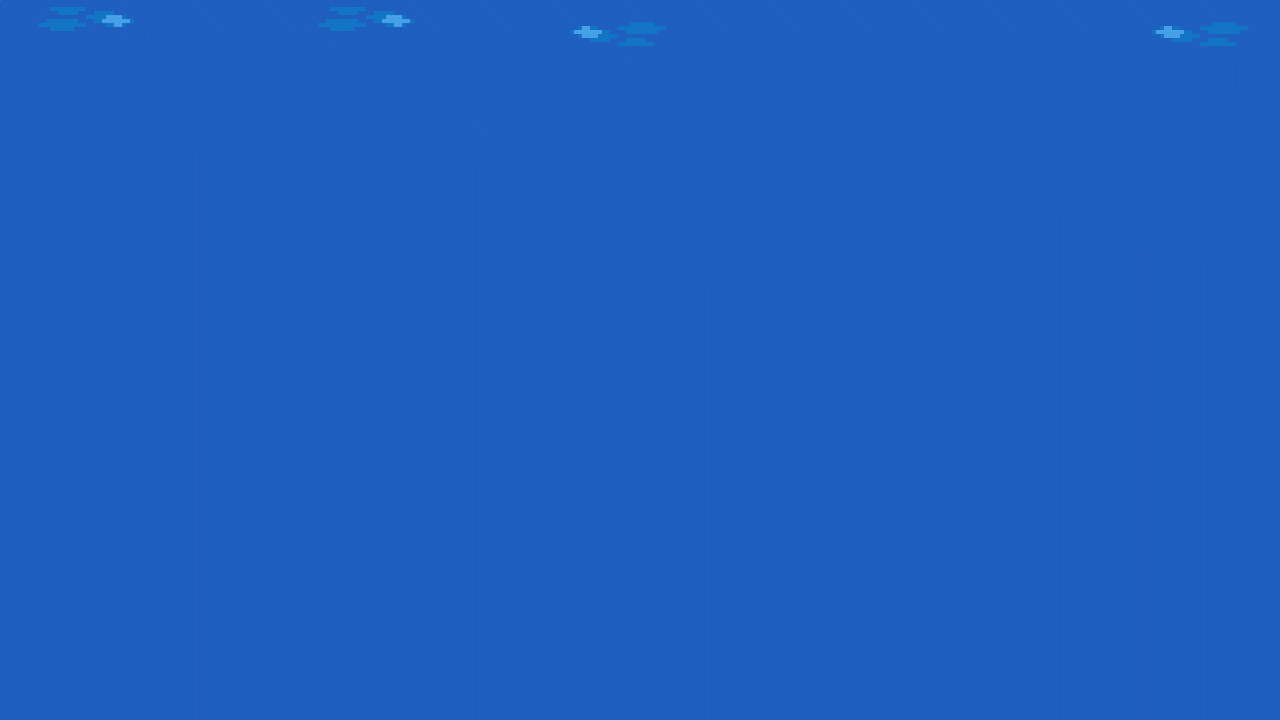
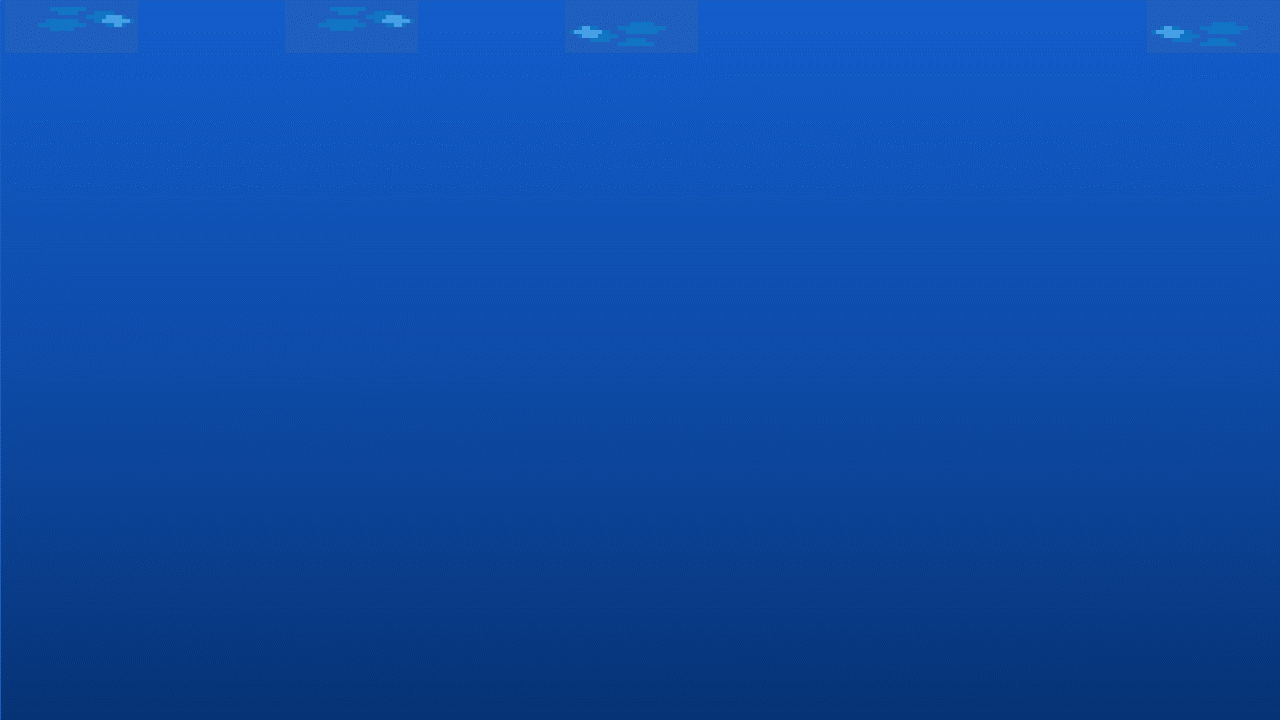
icy_update

diff --git a/src/pages/icy_mountains.html b/src/pages/icy_mountains.html
@@ -4,10 +4,10 @@
 <head>
   <meta charset="UTF-8">
   <meta name="viewport" content="width=device-width, initial-scale=1.0">
-  <title>Deep Ocean</title>
+  <title>Icy Mountains</title>
   <link rel="icon" type="image" sizes="50x50" href="../data/assets/img/icons/tree.ico">
   <link rel="stylesheet" href="../data/assets/css//static/bootstrap.min.css">
-  <link rel="stylesheet" href="../data/assets/css/styles/ocean.css">
+  <link rel="stylesheet" href="../data/assets/css/styles/icy_mointains.css">
   <link rel="stylesheet" href="../data/assets/css//utils/offmenu.css">
   <link rel="stylesheet" href="../data/assets/css/static/aos.css">
   <link rel="stylesheet" href="../data/fonts/fonts.css">
@@ -16,18 +16,17 @@
 <body>
 
   <div class="forest" id="forest">
-    <p data-aos="fade-top" id="logo">Deep Ocean</p>
-    <img src="../data/assets/img/locations/ocean.png" id="backforest" class="img-fluid" alt="forest">
+    <p data-aos="fade-top" id="logo">Icy Mountains</p>
+    <img src="../data/video/gif/locations/dungeons/Ice_dragon_habitat.gif" id="backforest" class="img-fluid" alt="forest">
 
     <div class="container" id="space-fire_dragon">
-      <img src="../data/video/gif/dragons/water_dragon_noback.gif" id="fire_dragon" alt="dragão" class="img-fluid">
+      <img src="../data/video/gif/dragons/snow_dragon.gif" id="fire_dragon" alt="dragão" class="img-fluid">
       <div class="health-bar" id="health-bar"></div>
       <img src="../data/video/gif/batlle_sprites/blue_slash.gif" id="sword-slash" alt="sword-slash"
         style="display: none;">
       <div class="health-bar" id="user-health-bar"></div>
       <img src="../data/video/gif/off_menu/skull.gif" id="skull" alt="skull">
     </div>
-
   </div>
 
   <div class="container-fluid" id="action-bar">

diff --git a/src/data/assets/css/styles/icy_mointains.css b/src/data/assets/css/styles/icy_mointains.css
@@ -214,8 +214,7 @@
   top: 9%; /* Posiciona a skull verticalmente no centro da barra de vida */
   transform: translateY(-50%);
   left: calc(50% - 270px); /* Posiciona a skull no início da barra de vida */
-  filter: hue-rotate(1deg) contrast(2) brightness(0.9) drop-shadow(0 5px 10px rgb(255, 0, 0)); /* Coloração do adversário ao receber dano */
-
+  filter: hue-rotate(200deg) contrast(2) brightness(0.9) drop-shadow(0 5px 10px rgb(255, 0, 0)); /* Coloração do adversário ao receber dano */
 }
 
 #sword-slash {
